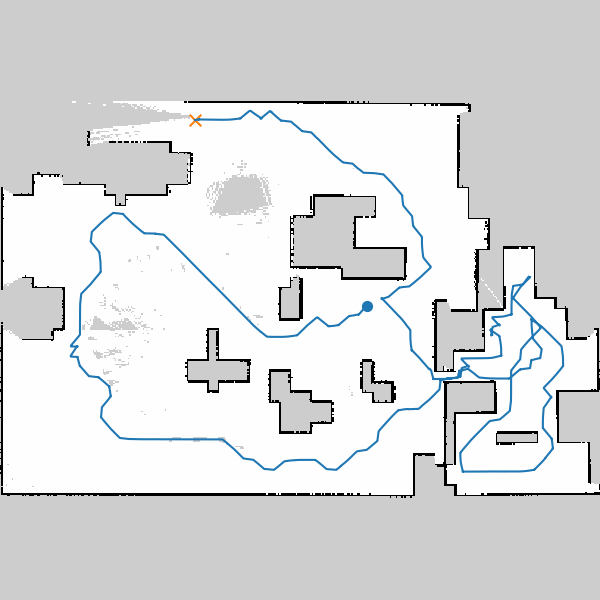
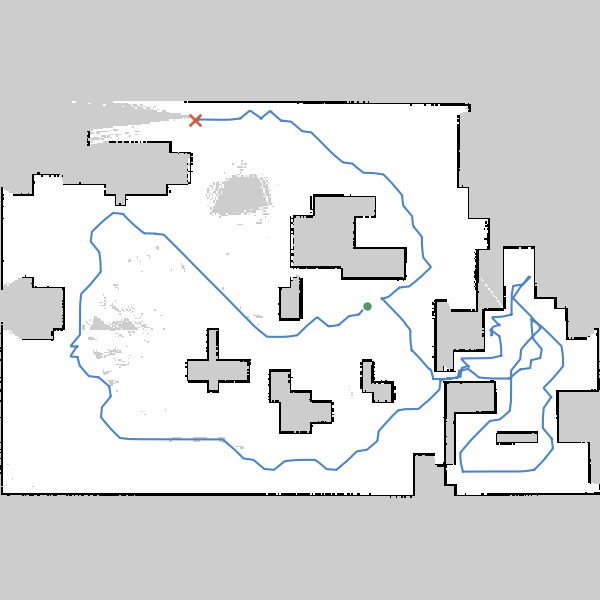
style: align cell035 trajectory markers

diff --git a/plot_slam_map_with_map_frame_trajectory_clean.py b/plot_slam_map_with_map_frame_trajectory_clean.py
@@ -19,6 +19,9 @@ from PIL import Image
 ROOT = Path(__file__).resolve().parent
 DEFAULT_OUTPUT = ROOT / "cell035_slam_map_with_map_frame_trajectory_clean_600x600.png"
 UNKNOWN_GRAY = 205 / 255
+TRAJECTORY_COLOR = "#5185c0"
+START_COLOR = "#55966b"
+END_COLOR = "#c96144"
 
 
 def parse_args() -> argparse.Namespace:
@@ -75,9 +78,26 @@ def main() -> None:
         origin="upper",
         interpolation="nearest",
     )
-    axes.plot(trajectory_x, trajectory_y, color="#1f77b4", linewidth=1.5)
-    axes.scatter(trajectory_x[0], trajectory_y[0], color="#1f77b4", marker="o", s=50)
-    axes.scatter(trajectory_x[-1], trajectory_y[-1], color="#ff7f0e", marker="x", s=70)
+    axes.plot(trajectory_x, trajectory_y, color=TRAJECTORY_COLOR, linewidth=1.5)
+    axes.scatter(
+        trajectory_x[0],
+        trajectory_y[0],
+        color=START_COLOR,
+        edgecolors="white",
+        linewidths=1.0,
+        marker="o",
+        s=50,
+        zorder=3,
+    )
+    axes.scatter(
+        trajectory_x[-1],
+        trajectory_y[-1],
+        color=END_COLOR,
+        linewidths=2.0,
+        marker="x",
+        s=70,
+        zorder=3,
+    )
     axes.set_xlim(-0.5, map_width - 0.5)
     axes.set_ylim(map_height - 0.5, -0.5)
     axes.set_aspect("equal", adjustable="box")
